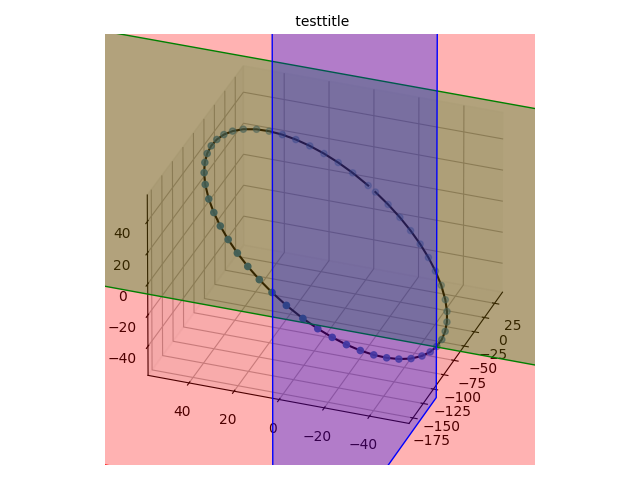
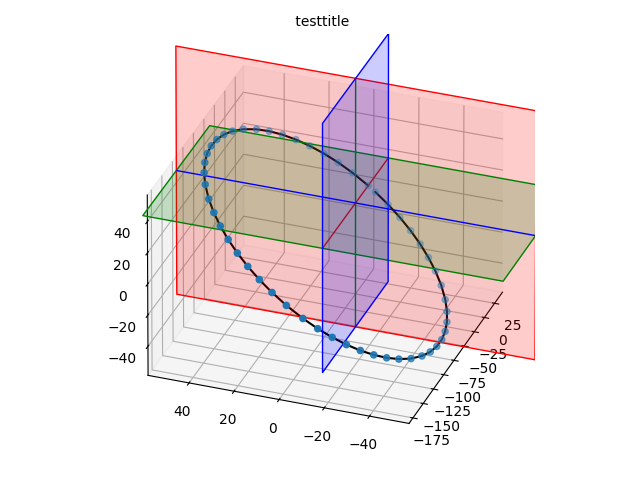
.

diff --git a/mpl_debug.py b/mpl_debug.py
@@ -17,9 +17,9 @@ def plot_planes(axs, alpha=0.3, min_=-200, max_=200):
     x0_plane = [(0, miny, minz), (0, miny, maxz), (0, maxy, maxz), (0, maxy, minz)]
     y0_plane = [(minx, 0, minz), (minx, 0, maxz), (maxx, 0, maxz), (maxx, 0, minz)]
     z0_plane = [(minx, miny, 0), (minx, maxy, 0), (maxx, maxy, 0), (maxx, miny, 0)]
-    x0_axis = [(minx, -1, -1), (minx, 1, 1), (maxx, 1, 1), (maxx, -1, -1)]
-    y0_axis = [(-1, miny, -1), (1, miny, 1), (1, maxy, 1), (-1, maxy, -1)]
-    z0_axis = [(-1, -1, minz), (1, 1, minz), (1, 1, maxz), (-1, -1, maxz)]
+    x0_axis = [(minx, 0, 0), (minx, 0, 0), (maxx, 0, 0), (maxx, 0, 0)]
+    y0_axis = [(0, miny, 0), (0, miny, 0), (0, maxy, 0), (0, maxy, 0)]
+    z0_axis = [(0, 0, minz), (0, 0, minz), (0, 0, maxz), (0, 0, maxz)]
     poly_x = Poly3DCollection([x0_plane, x0_axis], color=colorx, alpha=alpha)
     poly_y = Poly3DCollection([y0_plane, y0_axis], color=colory, alpha=alpha)
     poly_z = Poly3DCollection([z0_plane, z0_axis], color=colorz, alpha=alpha)
